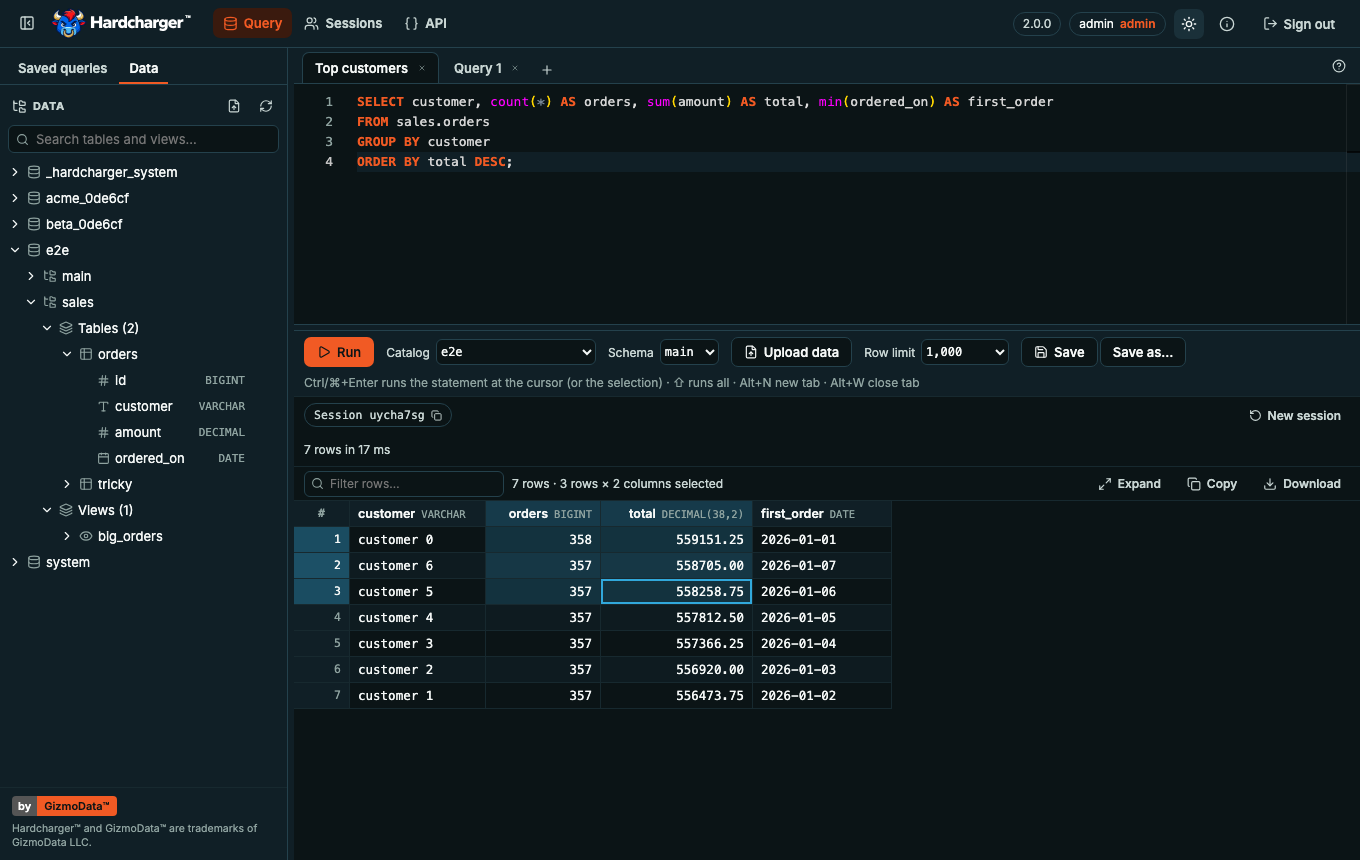
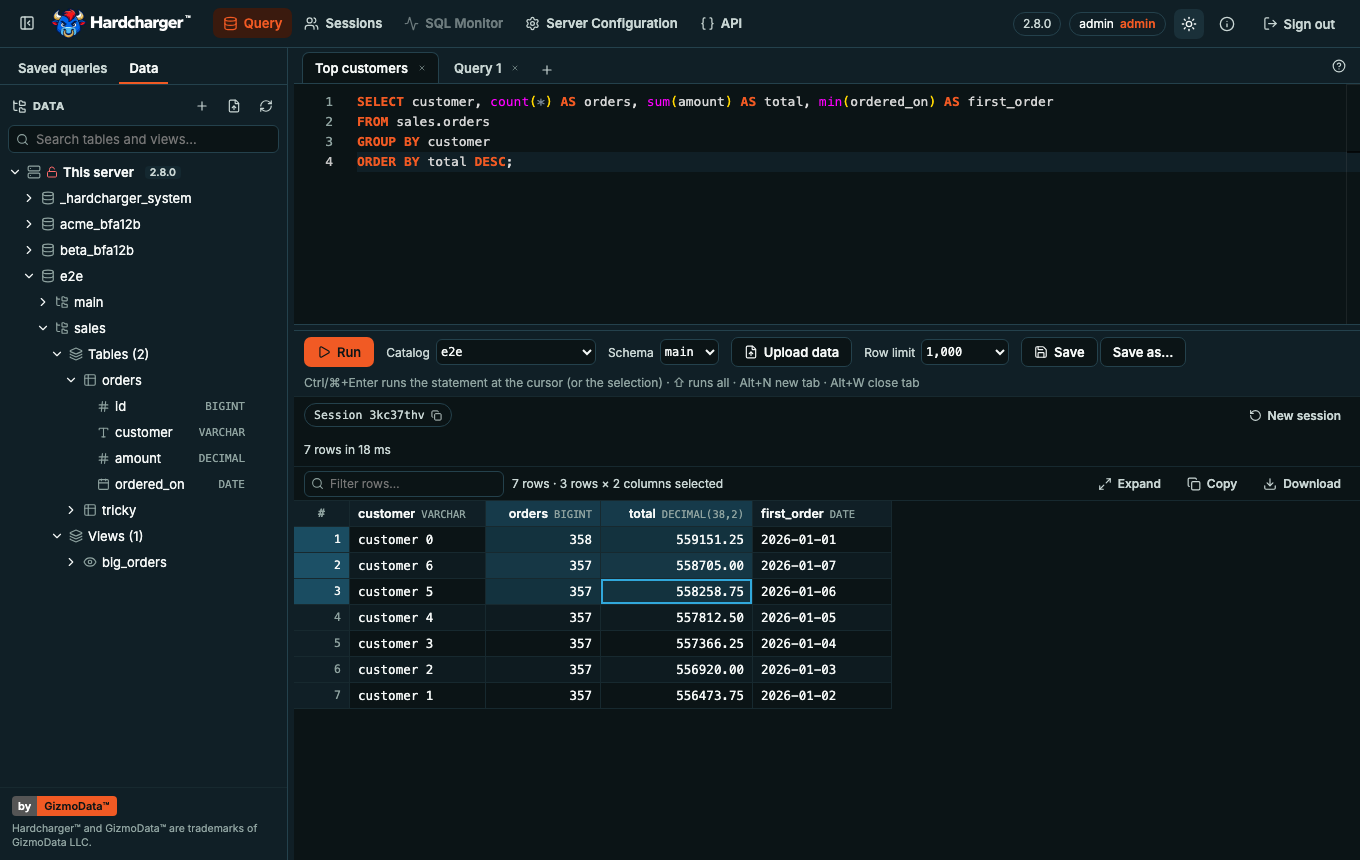
README: screenshots from 2.8.0
The web UI, upload, API, SQL Monitor, Server Configuration and desktop screenshots were from
2.0.0-2.1.0: the API page and the desktop dashboard still said Warp SQL, and the schema browser
showed the single-server tree with DuckDB's `system` catalog. Retaken from the 2.8.0 build
(ui/test/e2e/screenshots.spec.ts, documentation-screenshots.spec.ts, desktop/test/preview.spec.ts,
and the upload dialog with a three-row workbook). The query screenshot's alt text now says what
it shows.

diff --git a/ui/README.md b/ui/README.md
@@ -19,7 +19,7 @@ For the v2.1.0+ administrator tabs, see [SQL Monitor and Server Configuration](.
 They are available in browser sessions and the [desktop app's SQL workspace](../docs/desktop-app.md).
 
 <p align="center">
-  <img src="../docs/assets/web-ui-query-light.png" alt="The web UI: the schema browser, two editor tabs, a script's result tabs, and an open transaction" width="80%">
+  <img src="../docs/assets/web-ui-query-light.png" alt="The web UI: the schema browser with the server and its catalogs, two editor tabs, and a query's results" width="80%">
 </p>
 
 - 🔭 **SQL Monitor** and **Server Configuration** for unrestricted administrators: query

diff --git a/README.md b/README.md
@@ -86,7 +86,7 @@ settings import/export, and the difference between closing and quitting.
 ## 🌐 Built-in web UI
 
 <p align="center">
-  <img src="docs/assets/web-ui-query-light.png" alt="Hardcharger's web UI, light theme: the schema browser, two editor tabs, a script's result tabs, and an open transaction with Commit and Rollback" width="49%">
+  <img src="docs/assets/web-ui-query-light.png" alt="Hardcharger's web UI, light theme: the schema browser with the server and its catalogs, two editor tabs, and a query's results" width="49%">
   <img src="docs/assets/web-ui-query-dark.png" alt="Hardcharger's web UI, dark theme" width="49%">
 </p>
 
